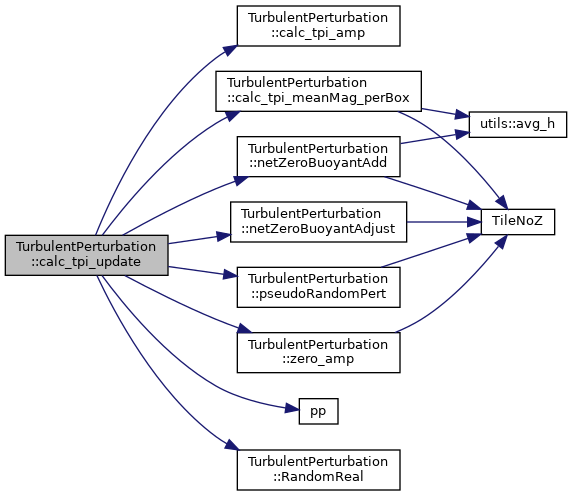
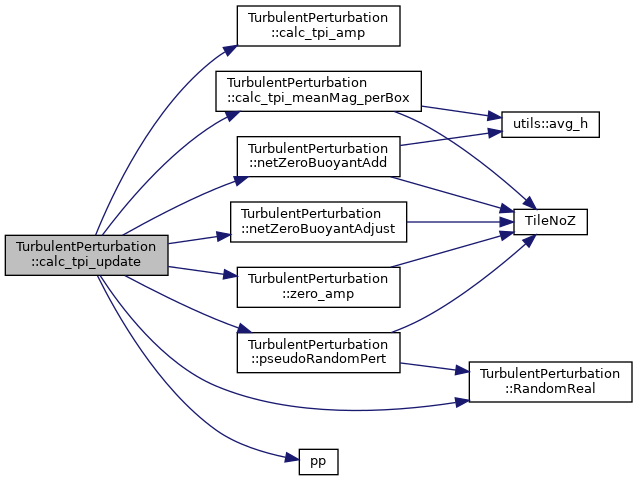
Deployed from erf-model/ERF

diff --git a/structTurbulentPerturbation.html b/structTurbulentPerturbation.html
@@ -779,12 +779,12 @@ Here is the call graph for this function:</div>
 <area shape="rect" href="structTurbulentPerturbation.html#ac2f49dd6a95ab0bb291fa4977d9682e5" title=" " alt="" coords="216,71,421,112"/>
 <area shape="rect" href="structTurbulentPerturbation.html#acf1a844ac4076c4af8ef38963f3fcc60" title=" " alt="" coords="237,136,400,177"/>
 <area shape="rect" href="structTurbulentPerturbation.html#a573c68aeec901ddf7c3cfe102430e527" title=" " alt="" coords="231,201,407,243"/>
-<area shape="rect" href="ERF__MicrophysicsUtils_8H.html#ac54f1d17d8842acb42b2312cd353e469" title=" " alt="" coords="299,398,338,425"/>
-<area shape="rect" href="structTurbulentPerturbation.html#a1dfc591297a8af23c941b06ed5fabba1" title=" " alt="" coords="237,267,400,308"/>
-<area shape="rect" href="structTurbulentPerturbation.html#ad1831bbc1cee603520e0b66692cebfa7" title=" " alt="" coords="237,449,400,491"/>
-<area shape="rect" href="structTurbulentPerturbation.html#ab818d5a843f6fc2c60443036daf63ad9" title=" " alt="" coords="237,332,400,373"/>
-<area shape="rect" href="namespaceutils.html#afd70db91466598d8531fdb706be70271" title=" " alt="" coords="469,111,567,138"/>
-<area shape="rect" href="ERF__TileNoZ_8H.html#a8da113f1d5603f7297fe1d03e5013f00" title=" " alt="" coords="481,209,555,235"/>
+<area shape="rect" href="ERF__MicrophysicsUtils_8H.html#ac54f1d17d8842acb42b2312cd353e469" title=" " alt="" coords="299,449,338,475"/>
+<area shape="rect" href="structTurbulentPerturbation.html#a1dfc591297a8af23c941b06ed5fabba1" title=" " alt="" coords="237,332,400,373"/>
+<area shape="rect" href="structTurbulentPerturbation.html#ad1831bbc1cee603520e0b66692cebfa7" title=" " alt="" coords="469,361,632,403"/>
+<area shape="rect" href="structTurbulentPerturbation.html#ab818d5a843f6fc2c60443036daf63ad9" title=" " alt="" coords="237,267,400,308"/>
+<area shape="rect" href="namespaceutils.html#afd70db91466598d8531fdb706be70271" title=" " alt="" coords="502,111,599,138"/>
+<area shape="rect" href="ERF__TileNoZ_8H.html#a8da113f1d5603f7297fe1d03e5013f00" title=" " alt="" coords="514,209,587,235"/>
 </map>
 </div>
 
@@ -1328,14 +1328,14 @@ Here is the caller graph for this function:</div>
 <div class="line"><a name="l00391"></a><span class="lineno">  391</span>&#160;            amrex::Box vbx = mfi.validbox();</div>
 <div class="line"><a name="l00392"></a><span class="lineno">  392</span>&#160;            amrex::Box pbx = amrex::convert(<a class="code" href="structTurbulentPerturbation.html#a37cd2d582d2102a94d25a3fa6631e8dc">pb_ba</a>[lev][boxIdx], m_ixtype);</div>
 <div class="line"><a name="l00393"></a><span class="lineno">  393</span>&#160;            amrex::Box ubx = pbx &amp; vbx;</div>
-<div class="line"><a name="l00394"></a><span class="lineno">  394</span>&#160;            <span class="keywordtype">double</span> rand_number = <span class="keyword">static_cast&lt;</span><span class="keywordtype">double</span><span class="keyword">&gt;</span>(rand()) / RAND_MAX;</div>
-<div class="line"><a name="l00395"></a><span class="lineno">  395</span>&#160;            <span class="keywordflow">if</span> (ubx.ok()) {</div>
-<div class="line"><a name="l00396"></a><span class="lineno">  396</span>&#160;                amrex::Real amp_copy = <a class="code" href="structTurbulentPerturbation.html#afb4555887c198130cbb708257519db5f">pb_amp</a>[lev][boxIdx];</div>
-<div class="line"><a name="l00397"></a><span class="lineno">  397</span>&#160;                <span class="keyword">const</span> amrex::Array4&lt;amrex::Real&gt;&amp; pert_cell = <a class="code" href="structTurbulentPerturbation.html#a0bc940e3c9b5cd1ebcf866aaa344cfed">pb_cell</a>[lev].array(mfi);</div>
-<div class="line"><a name="l00398"></a><span class="lineno">  398</span>&#160; </div>
-<div class="line"><a name="l00399"></a><span class="lineno">  399</span>&#160;                <span class="keywordflow">if</span> (<a class="code" href="structTurbulentPerturbation.html#ad0d78e0adbb21ae36f4483dd30e15d58">pt_type</a> == 2) { <span class="comment">// CPM</span></div>
+<div class="line"><a name="l00394"></a><span class="lineno">  394</span>&#160;            <span class="keywordflow">if</span> (ubx.ok()) {</div>
+<div class="line"><a name="l00395"></a><span class="lineno">  395</span>&#160;                amrex::Real amp_copy = <a class="code" href="structTurbulentPerturbation.html#afb4555887c198130cbb708257519db5f">pb_amp</a>[lev][boxIdx];</div>
+<div class="line"><a name="l00396"></a><span class="lineno">  396</span>&#160;                <span class="keyword">const</span> amrex::Array4&lt;amrex::Real&gt;&amp; pert_cell = <a class="code" href="structTurbulentPerturbation.html#a0bc940e3c9b5cd1ebcf866aaa344cfed">pb_cell</a>[lev].array(mfi);</div>
+<div class="line"><a name="l00397"></a><span class="lineno">  397</span>&#160; </div>
+<div class="line"><a name="l00398"></a><span class="lineno">  398</span>&#160;                <span class="keywordflow">if</span> (<a class="code" href="structTurbulentPerturbation.html#ad0d78e0adbb21ae36f4483dd30e15d58">pt_type</a> == 2) { <span class="comment">// CPM</span></div>
+<div class="line"><a name="l00399"></a><span class="lineno">  399</span>&#160;                    amrex::Real rand_number_const = <a class="code" href="structTurbulentPerturbation.html#ad1831bbc1cee603520e0b66692cebfa7">RandomReal</a>(-1.0, 1.0);</div>
 <div class="line"><a name="l00400"></a><span class="lineno">  400</span>&#160;                    ParallelFor(ubx, [=] AMREX_GPU_DEVICE(<span class="keywordtype">int</span> i, <span class="keywordtype">int</span> j, <span class="keywordtype">int</span> k) noexcept {</div>
-<div class="line"><a name="l00401"></a><span class="lineno">  401</span>&#160;                        pert_cell(i,j,k) = (rand_number*2.0 - 1.0) * amp_copy;</div>
+<div class="line"><a name="l00401"></a><span class="lineno">  401</span>&#160;                        pert_cell(i,j,k) = rand_number_const * amp_copy;</div>
 <div class="line"><a name="l00402"></a><span class="lineno">  402</span>&#160;                    });</div>
 <div class="line"><a name="l00403"></a><span class="lineno">  403</span>&#160;                } <span class="keywordflow">else</span> {</div>
 <div class="line"><a name="l00404"></a><span class="lineno">  404</span>&#160;                    ParallelForRNG(ubx, [=] AMREX_GPU_DEVICE(<span class="keywordtype">int</span> i, <span class="keywordtype">int</span> j, <span class="keywordtype">int</span> k, <span class="keyword">const</span> amrex::RandomEngine&amp; engine) noexcept {</div>
@@ -1354,8 +1354,9 @@ Here is the call graph for this function:</div>
 <div class="dyncontent">
 <div class="center"><img src="structTurbulentPerturbation_a1dfc591297a8af23c941b06ed5fabba1_cgraph.png" border="0" usemap="#astructTurbulentPerturbation_a1dfc591297a8af23c941b06ed5fabba1_cgraph" alt=""/></div>
 <map name="astructTurbulentPerturbation_a1dfc591297a8af23c941b06ed5fabba1_cgraph" id="astructTurbulentPerturbation_a1dfc591297a8af23c941b06ed5fabba1_cgraph">
-<area shape="rect" title=" " alt="" coords="5,5,168,47"/>
-<area shape="rect" href="ERF__TileNoZ_8H.html#a8da113f1d5603f7297fe1d03e5013f00" title=" " alt="" coords="216,13,289,39"/>
+<area shape="rect" title=" " alt="" coords="5,35,168,76"/>
+<area shape="rect" href="structTurbulentPerturbation.html#ad1831bbc1cee603520e0b66692cebfa7" title=" " alt="" coords="216,5,379,47"/>
+<area shape="rect" href="ERF__TileNoZ_8H.html#a8da113f1d5603f7297fe1d03e5013f00" title=" " alt="" coords="261,71,334,98"/>
 </map>
 </div>
 <div class="dynheader">
@@ -1408,14 +1409,15 @@ Here is the caller graph for this function:</div>
 <div class="line"><a name="l00685"></a><span class="lineno">  685</span>&#160;        <span class="keywordflow">return</span> min + r * (max - min);</div>
 <div class="line"><a name="l00686"></a><span class="lineno">  686</span>&#160;    }</div>
 </div><!-- fragment -->
-<p class="reference">Referenced by <a class="el" href="structTurbulentPerturbation.html#a5e6200f8b6bea3c4944dccc6c7285102">calc_tpi_update()</a>.</p>
+<p class="reference">Referenced by <a class="el" href="structTurbulentPerturbation.html#a5e6200f8b6bea3c4944dccc6c7285102">calc_tpi_update()</a>, and <a class="el" href="structTurbulentPerturbation.html#a1dfc591297a8af23c941b06ed5fabba1">pseudoRandomPert()</a>.</p>
 <div class="dynheader">
 Here is the caller graph for this function:</div>
 <div class="dyncontent">
 <div class="center"><img src="structTurbulentPerturbation_ad1831bbc1cee603520e0b66692cebfa7_icgraph.png" border="0" usemap="#astructTurbulentPerturbation_ad1831bbc1cee603520e0b66692cebfa7_icgraph" alt=""/></div>
 <map name="astructTurbulentPerturbation_ad1831bbc1cee603520e0b66692cebfa7_icgraph" id="astructTurbulentPerturbation_ad1831bbc1cee603520e0b66692cebfa7_icgraph">
-<area shape="rect" title=" " alt="" coords="216,5,379,47"/>
+<area shape="rect" title=" " alt="" coords="427,5,589,47"/>
 <area shape="rect" href="structTurbulentPerturbation.html#a5e6200f8b6bea3c4944dccc6c7285102" title=" " alt="" coords="5,5,168,47"/>
+<area shape="rect" href="structTurbulentPerturbation.html#a1dfc591297a8af23c941b06ed5fabba1" title=" " alt="" coords="216,35,379,76"/>
 </map>
 </div>
 

diff --git a/ERF__TurbPertStruct_8H_source.html b/ERF__TurbPertStruct_8H_source.html
@@ -479,14 +479,14 @@ $(document).ready(function(){initNavTree('ERF__TurbPertStruct_8H_source.html',''
 <div class="line"><a name="l00391"></a><span class="lineno">  391</span>&#160;            amrex::Box vbx = mfi.validbox();</div>
 <div class="line"><a name="l00392"></a><span class="lineno">  392</span>&#160;            amrex::Box pbx = amrex::convert(<a class="code" href="structTurbulentPerturbation.html#a37cd2d582d2102a94d25a3fa6631e8dc">pb_ba</a>[lev][boxIdx], m_ixtype);</div>
 <div class="line"><a name="l00393"></a><span class="lineno">  393</span>&#160;            amrex::Box ubx = pbx &amp; vbx;</div>
-<div class="line"><a name="l00394"></a><span class="lineno">  394</span>&#160;            <span class="keywordtype">double</span> rand_number = <span class="keyword">static_cast&lt;</span><span class="keywordtype">double</span><span class="keyword">&gt;</span>(rand()) / RAND_MAX;</div>
-<div class="line"><a name="l00395"></a><span class="lineno">  395</span>&#160;            <span class="keywordflow">if</span> (ubx.ok()) {</div>
-<div class="line"><a name="l00396"></a><span class="lineno">  396</span>&#160;                amrex::Real amp_copy = <a class="code" href="structTurbulentPerturbation.html#afb4555887c198130cbb708257519db5f">pb_amp</a>[lev][boxIdx];</div>
-<div class="line"><a name="l00397"></a><span class="lineno">  397</span>&#160;                <span class="keyword">const</span> amrex::Array4&lt;amrex::Real&gt;&amp; pert_cell = <a class="code" href="structTurbulentPerturbation.html#a0bc940e3c9b5cd1ebcf866aaa344cfed">pb_cell</a>[lev].array(mfi);</div>
-<div class="line"><a name="l00398"></a><span class="lineno">  398</span>&#160; </div>
-<div class="line"><a name="l00399"></a><span class="lineno">  399</span>&#160;                <span class="keywordflow">if</span> (<a class="code" href="structTurbulentPerturbation.html#ad0d78e0adbb21ae36f4483dd30e15d58">pt_type</a> == 2) { <span class="comment">// CPM</span></div>
+<div class="line"><a name="l00394"></a><span class="lineno">  394</span>&#160;            <span class="keywordflow">if</span> (ubx.ok()) {</div>
+<div class="line"><a name="l00395"></a><span class="lineno">  395</span>&#160;                amrex::Real amp_copy = <a class="code" href="structTurbulentPerturbation.html#afb4555887c198130cbb708257519db5f">pb_amp</a>[lev][boxIdx];</div>
+<div class="line"><a name="l00396"></a><span class="lineno">  396</span>&#160;                <span class="keyword">const</span> amrex::Array4&lt;amrex::Real&gt;&amp; pert_cell = <a class="code" href="structTurbulentPerturbation.html#a0bc940e3c9b5cd1ebcf866aaa344cfed">pb_cell</a>[lev].array(mfi);</div>
+<div class="line"><a name="l00397"></a><span class="lineno">  397</span>&#160; </div>
+<div class="line"><a name="l00398"></a><span class="lineno">  398</span>&#160;                <span class="keywordflow">if</span> (<a class="code" href="structTurbulentPerturbation.html#ad0d78e0adbb21ae36f4483dd30e15d58">pt_type</a> == 2) { <span class="comment">// CPM</span></div>
+<div class="line"><a name="l00399"></a><span class="lineno">  399</span>&#160;                    amrex::Real rand_number_const = <a class="code" href="structTurbulentPerturbation.html#ad1831bbc1cee603520e0b66692cebfa7">RandomReal</a>(-1.0, 1.0);</div>
 <div class="line"><a name="l00400"></a><span class="lineno">  400</span>&#160;                    ParallelFor(ubx, [=] AMREX_GPU_DEVICE(<span class="keywordtype">int</span> i, <span class="keywordtype">int</span> j, <span class="keywordtype">int</span> k) noexcept {</div>
-<div class="line"><a name="l00401"></a><span class="lineno">  401</span>&#160;                        pert_cell(i,j,k) = (rand_number*2.0 - 1.0) * amp_copy;</div>
+<div class="line"><a name="l00401"></a><span class="lineno">  401</span>&#160;                        pert_cell(i,j,k) = rand_number_const * amp_copy;</div>
 <div class="line"><a name="l00402"></a><span class="lineno">  402</span>&#160;                    });</div>
 <div class="line"><a name="l00403"></a><span class="lineno">  403</span>&#160;                } <span class="keywordflow">else</span> {</div>
 <div class="line"><a name="l00404"></a><span class="lineno">  404</span>&#160;                    ParallelForRNG(ubx, [=] AMREX_GPU_DEVICE(<span class="keywordtype">int</span> i, <span class="keywordtype">int</span> j, <span class="keywordtype">int</span> k, <span class="keyword">const</span> amrex::RandomEngine&amp; engine) noexcept {</div>
